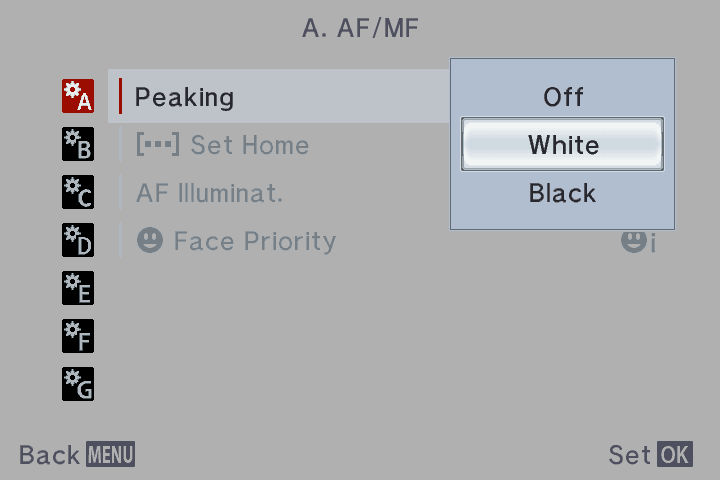
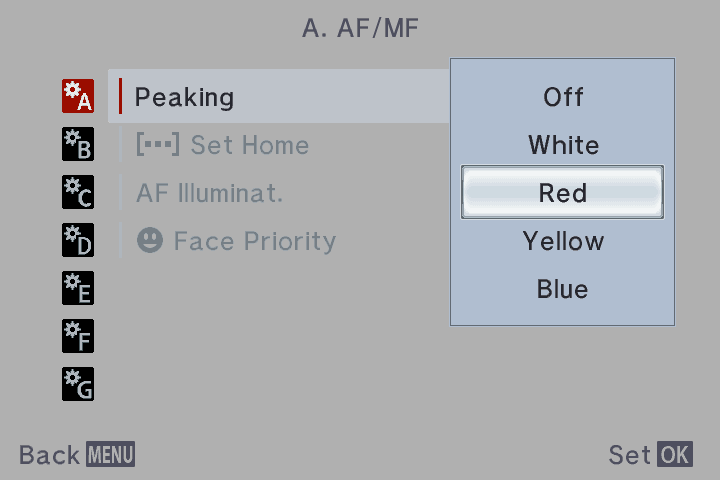
feat(peaking): coloured lines are camera-tested; pin peaking-colours

Changed region(s): [[0.6111, 0.2188, 0.9472, 0.6875]]

diff --git a/docs/camera-log.md b/docs/camera-log.md
@@ -47,4 +47,4 @@ Body: Olympus PEN E-PM2. It was on body 1.6 and lens 1.1 before the first flash.
[5 lines of base64/hex data omitted]

diff --git a/builds/README.md b/builds/README.md
@@ -18,9 +18,10 @@ All firmware that goes on a camera is made this way. The procedure for a new bui
 <!-- BEGIN GENERATED: builds -->
 | Build | What | Patch specs | Camera-tested | sha256 |
 |---|---|---|---|---|
[8 lines of base64/hex data omitted]

diff --git a/docs/install.md b/docs/install.md
@@ -1,12 +1,12 @@
 # Install
 
 <!-- BEGIN GENERATED: pinned-build -->
-The pinned build is **`peaking-menu-names`**: seven film looks named in all 34 languages, interval shooting with up to 240 frames, the level gauge with Level Adjust, and focus peaking with the setting Off / White / Black. We tested this build on a real E-PM2 on 2026-11-15 ([camera log](camera-log.md)).
+The pinned build is **`peaking-colours`**: seven film looks named in all 34 languages, interval shooting with up to 240 frames, the level gauge with Level Adjust, and focus peaking with the setting Off / White / Red / Yellow / Blue. We tested this build on a real E-PM2 on 2026-11-15 ([camera log](camera-log.md)).
 
 | | sha256 |
 |---|---|
[3 lines of base64/hex data omitted]
 <!-- END GENERATED: pinned-build -->
 
 **Use this firmware at your own risk.** It is unofficial and only for the E-PM2 with firmware 1.6

diff --git a/docs/guide/focus-peaking.md b/docs/guide/focus-peaking.md
@@ -5,7 +5,7 @@ When you turn the focus ring, the view zooms in and shows lines on the sharp edg
 **To switch it on:** MENU → Custom Menu (gears) → **A** → **MF Assist** → **On**. Then set the
 focus mode to **MF**.
 
-**To set the lines:** MENU → Custom Menu → **A** → **Peaking** → **Off**, **White** or **Black**.
+**To set the lines:** MENU → Custom Menu → **A** → **Peaking** → **Off**, **White**, **Red**, **Yellow** or **Blue**.
 
 <img src="../images/ui/peaking-list.png" width="320" alt="Custom Menu A with the Peaking list">
 
@@ -15,7 +15,6 @@ ends. The photo has no lines.
 **Limits**
 
 - The lines show only in the zoomed view of MF Assist.
-- White and black lines are hard to see on some subjects. Coloured lines are in work.
 - The row **Peaking** has its name only when the camera language is English.
 
 How it works: [../../experiments/2026-11-14-focus-peaking/NOTES.md](../../experiments/2026-11-14-focus-peaking/NOTES.md).

diff --git a/docs/todo.md b/docs/todo.md
@@ -12,8 +12,6 @@ and delete the item here.
 
 ## Focus peaking
 
-- Peaking colours: white and black blend with the picture (owner, 2026-11-15). Add coloured lines
-  (red, yellow, blue, as other makers offer) and remove Black. In work.
 - Peaking without the zoom: the trigger is the MF Assist state object, which also asks for the zoom.
   It needs the E-P5 state object paired (NOTES §15.5).
 - The words Peaking, White and Black are English only: the other languages keep the old texts of
